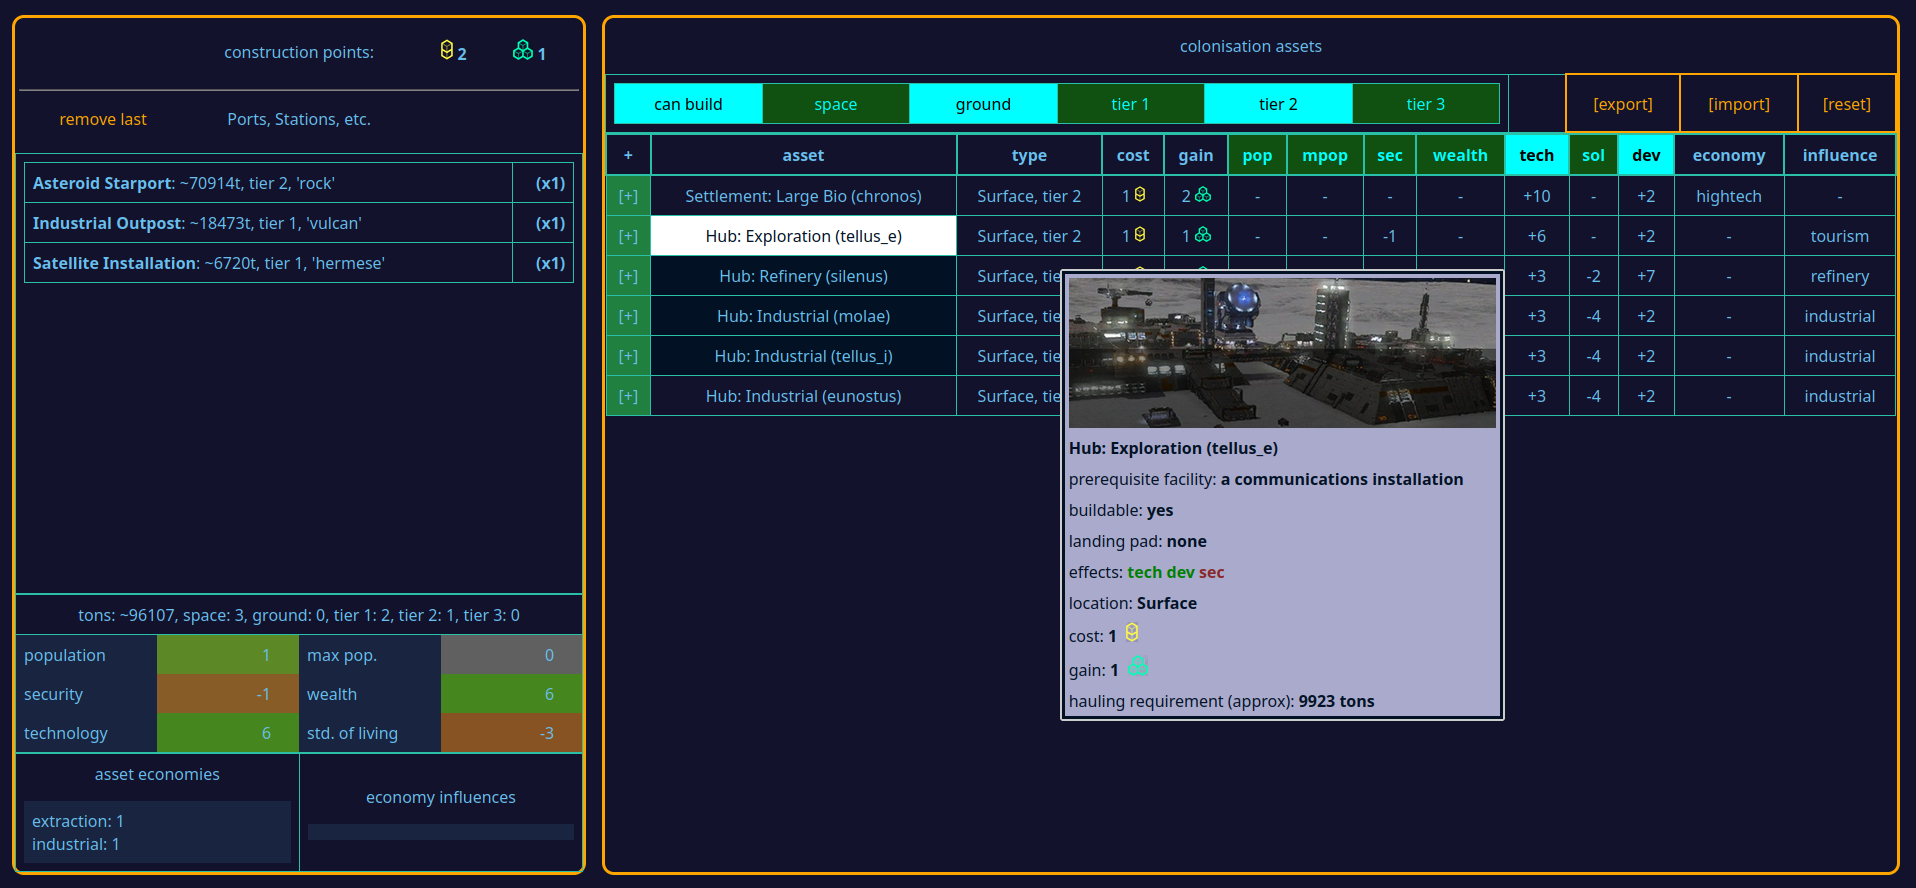
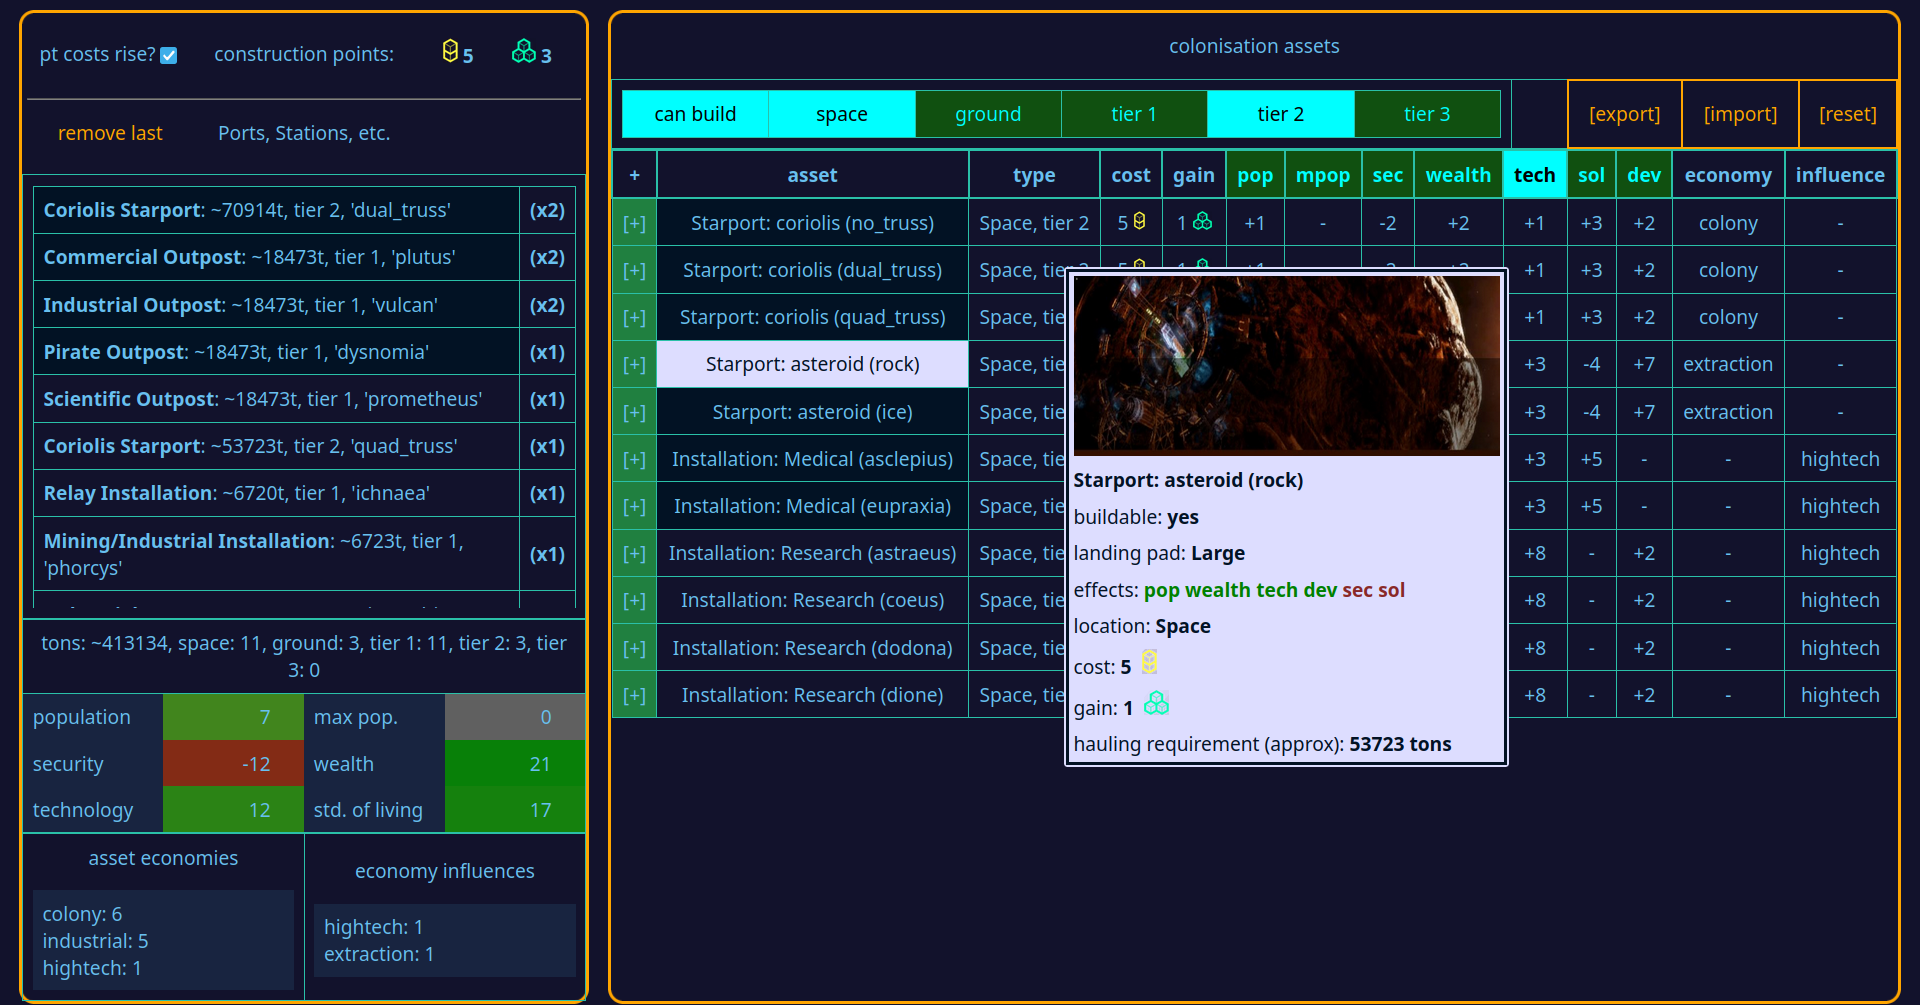
support construction points increase mechanic

diff --git a/index.html b/index.html
@@ -187,11 +187,9 @@ table {
 .infoPanel{
   margin: 4% 4%;
   width: 100%;
-  background-color: #aaaacc;
+  background-color: #ddddff;
   color: #021224;
-/*  padding: 10px; */
-  border: 2px solid #021224; 
-  border: 2px solid #cccccc; 
+  border: 2px solid #ddddff; 
   border-radius: 3px;
 }
 
@@ -273,8 +271,7 @@ table {
 <div class="container">
   <div class="sidebar" id="sidebar">
     <div id="assetsContainerHeader">
-    <table class="nb"><tr class="nb"><td class="nb" width="30%"></td><td class="nb" width="40%">construction points:</td><td class="nb" width="30%" id="pointsContainer"></td></tr></table>
-    <!-- table class="nb"><tr class="nb"><td class="nb" id="pointsContainer" width="30%"></td><td class="nb" width="40%">colonised system</td><td class="nb" width="30%"></td></tr></table -->
+    <table class="nb"><tr class="nb"><td class="nb" id="pointsOptions" width="30%"><label for="hikeOption">pt costs rise?</label><input type="checkbox" id="hikeOption"></td><td class="nb" width="40%">construction points:</td><td class="nb" width="30%" id="pointsContainer"></td></tr></table>
     <hr/>
     <table class="nb"><tr class="nb"><td class="nb" id="undo" width="30%"></td><td class="nb" width="40%">Ports, Stations, etc.</td><td class="nb" id="redo" width="30%"></td></tr></table>
     </div>
@@ -299,6 +296,8 @@ table {
 </div>
 
 <script>
+
+let loggit = false;
 
 const headers = ["+", "asset", "type", "cost", "gain", "pop", "mpop", "sec", "wealth", "tech", "sol", "dev", "economy", "influence"];
 
@@ -1004,6 +1003,8 @@ let systemAssetsList = [];
 // next asset to be added at this index (assets already in this or higher indices are for "redo last")
 let assetsListCurrent = 0;
 let systemStatus = { pop: 0, mpop: 0, sec: 0, wealth: 0, tech: 0, sol: 0, dev: 0 };
+let doMechanise = true;
+let deMechanised = false;
 
 const assetRequirements = {
     aergia: { req: ["hermese", "angelia", "eirene"], reqText: 'a satellite installation' },
@@ -1061,6 +1062,18 @@ function idToVariant(id) {
     return parts[1];
 }
 
+function assetFromId(id) {
+
+    const variantName = idToVariant(id);
+
+    for(let assetName in assets) {
+        if (assets[assetName].variants.includes(variantName)) {
+            return assets[assetName];
+        }
+    }
+    return {};
+}
+
 function haveRequirementFor(id) {
     let variantName = idToVariant(id);
     if (variantName in assetRequirements) {
@@ -1071,6 +1084,24 @@ function haveRequirementFor(id) {
             }
         }
         return false;
+    }
+    return true;
+}
+
+function canAdd(asset) {
+    if (!numSystemAssets()) {
+        if (primaryTypes.includes(asset.type)) {
+            return true;
+        } else {
+            return false;
+        }
+    }
+    if (asset.cost.amount > 0) {
+        costAmount = mechanise(asset);
+        let tier = 't' + asset.cost.tier;
+        if (points[tier] < costAmount) {
+            return false;
+        }
     }
     return true;
 }
@@ -1195,32 +1226,61 @@ function assetHeaders() {
     return r;
 }
 
-function canAdd(asset) {
-    if (!numSystemAssets()) {
-        if (primaryTypes.includes(asset.type)) {
-            return true;
-        } else {
-            return false;
+function countMajorAssets() {
+
+    if (assetsListCurrent === 0) {
+        return 0;
+    }
+
+    let total = 0;
+    let firstAss = assetFromId(systemAssetsList[0]);
+
+    if (firstAss.cost.amount > 0) { 
+        total -= 1;
+    }
+
+    for (let i = 0; i < assetsListCurrent; i++) {
+
+        const asset = assetFromId(systemAssetsList[i]);
+
+        if (asset.cost.amount >= 3) { 
+           total++;
         }
     }
-    if (asset.cost.amount > 0) {
-        let tier = 't' + asset.cost.tier;
-        if (points[tier] < asset.cost.amount) {
-            return false;
-        }
+
+    return total;
+}
+
+function mechanise(asset) {
+
+    if (!doMechanise || (asset.cost.amount < 3)) {
+        return asset.cost.amount;
     }
-    return true;
+
+    let numMajorAssets = countMajorAssets();
+
+    if (numMajorAssets < 2) {
+        return asset.cost.amount;
+    }
+
+    return asset.cost.amount + ((numMajorAssets - 1) * ((asset.cost.tier === 3) ? 6 : 2));
 }
 
 function actions(asset, variant) {
 
     let id = asset.name + '|' + variant;
-    var addCell;
+    let addCell;
 
     if (canAdd(asset)) {
         addCell = textElement('td', '[+]');
+
+        addCell = textElement('td', '[+]', 'mouseInOut', [
+            function() { this.style.background = '#ddddff'; this.style.color = '#021224'; infoBox(asset, variant); },
+            function() { this.style.background = '#208040'; this.style.color = '#68c0f0'; closeInfoPanel(); }
+        ]); 
         addCell.style.backgroundColor = '#208040';
         addCell.onclick = function() { addSystemAsset(asset, variant, true); };
+
     } else {
         addCell = textElement('td', '[_]');
         addCell.style.backgroundColor = '#808080';
@@ -1228,6 +1288,7 @@ function actions(asset, variant) {
 
     return addCell;
 }
+
 
 function assetRow(assetName, variant) {
 
@@ -1237,7 +1298,7 @@ function assetRow(assetName, variant) {
 
     let name = asset.type + ': ' + asset.name + ' (' + variant + ')';
     let assCell = textElement('td', name, 'mouseInOut', [
-            function() { this.style.background = '#ffffff'; this.style.color = '#021224'; infoBox(asset, variant); },
+            function() { this.style.background = '#ddddff'; this.style.color = '#021224'; infoBox(asset, variant); },
             function() { this.style.background = '#021224'; this.style.color = '#68c0f0'; closeInfoPanel(); }
     ]); 
 
@@ -1249,7 +1310,8 @@ function assetRow(assetName, variant) {
 
     let costStr = '-';
     if (asset.cost.amount > 0) {
-        costStr = asset.cost.amount + '&nbsp;' + (asset.cost.tier == 2 ? t2Img : t3Img);
+        let costAmount = mechanise(asset);
+        costStr = costAmount + '&nbsp;' + (asset.cost.tier == 2 ? t2Img : t3Img);
     }
     let gainStr = '-';
     if (asset.gain.amount > 0) {
@@ -1278,6 +1340,7 @@ function isVisible(assetName) {
             return false;
         }
     }
+
     if (assetFilters["space"]) {
         if (!(spaceTypes.includes(asset.type))) {
             return false;
@@ -1330,7 +1393,29 @@ function assetTable() {
     document.getElementById("tableContainer").appendChild(t);
 }
 
+function toggleMechanise() {
+
+    if (deMechanised) {
+        return;
+    }
+
+    doMechanise = !doMechanise;
+
+    if (!doMechanise) {
+        let cb = document.getElementById('hikeOption');
+        cb.disabled = true;
+        deMechanised = true;
+    }
+
+    refresh();
+}
+
 function showPoints() {
+
+    let cb = document.getElementById('hikeOption');
+    cb.checked = doMechanise;
+    cb.onclick = toggleMechanise;
+
     let t = document.createElement('table');
     let r = document.createElement('tr');
     let c = htmlElement('td', '<img class="tPointsImgB" src="img/t2.png"> <b>' + points.t2 + '</b>');
@@ -1489,6 +1574,18 @@ function showEconomy() {
     c.appendChild(t);
 }
 
+function mechanWarning() {
+    const p = document.createElement('p');
+    p.innerHTML = "There's optional support for the controversial "
+                + '<a href="https://forums.frontier.co.uk/threads/elite-dangerous-system-colonisation-beta-details-feedback.634055/post-10572014" target="_blank" style="color: #ff6644">'
+                + 'construction points price hike mechanic</a>, which you can turn off (once) with the checkbox (top left)<br />'
+                + 'Exporting and importing with different settings for this can create an inconsistent state - so '
+                + '<a href="http://catb.org/jargon/html/D/Don-t-do-that-then-.html" style="color: #ff6644">Don\'t Do That!</a>';
+    p.style.color = '#ff4444';
+    return p;
+}
+
+
 function buildWarning() {
     const p = document.createElement('p');
     p.innerHTML = '***WARNING***</div> '
@@ -1510,9 +1607,10 @@ function spreadsheetLink() {
 function intro() {
     const s = document.createElement('span');
     s.appendChild(textElement('p', 'Click a green "[+]" on the right to add an asset.'));
-    s.appendChild(textElement('p', 'Click filters like "[tier 3]" to show matching assets.'));
+    s.appendChild(textElement('p', 'Click filters like "[tier 3]" or "SOL" (standard of living) to show matching assets.'));
     s.appendChild(textElement('p', 'Buildable filter ("can build") is pre-enabled, click to disable.'));
     s.appendChild(textElement('p', 'Adding assets may require construction points (tier 2 or tier 3). No points are required for the first station.'));
+    s.appendChild(mechanWarning());
     s.appendChild(textElement('p', 'When you add an asset, this text will disappear and assets will appear here.'));
     s.appendChild(buildWarning());
     s.appendChild(spreadsheetLink());
@@ -1736,6 +1834,9 @@ function showAssets() {
 
 function toggleFilter(filter) {
 
+    console.log("  >>>>>>>>>>>>>>>>>>>>>>>>>>>> toggle filter: " + filter + " <<<<<<<<<<<<<<<<<<<<<<<<<<<<<<<<<<");
+    // loggit = true;
+
     assetFilters[filter] = assetFilters[filter] ? false : true;
 
     if (assetFilters[filter]) {
@@ -1782,18 +1883,6 @@ function showFilters() {
     filtersContainer.appendChild(t);
 }
 
-function assetFromId(id) {
-
-    const variantName = idToVariant(id);
-
-    for(assetName in assets) {
-        if (assets[assetName].variants.includes(variantName)) {
-            return assets[assetName];
-        }
-    }
-    return {};
-}
-
 function assetInfo(asset, variant, posn) {
 
     let padSize = (variant in padSizes ? padSizes[variant] : 'none');
@@ -1806,8 +1895,8 @@ function assetInfo(asset, variant, posn) {
     if (costImg) {
         costImg = '<img class="tPointsImgB" src="' + costImg + '">';
     }
-    // let cost = ( asset.cost.amount ? '<b>' + asset.cost.amount + '</b>\x0a\x0ax\x0a\x0a' + costImg : 'none' );
-    let cost = ( asset.cost.amount ? '<b>' + asset.cost.amount + '</b>&nbsp;&nbsp;' + costImg : 'none' );
+
+    let cost = ( asset.cost.amount ? '<b>' + mechanise(asset) + '</b>&nbsp;&nbsp;' + costImg : 'none' );
 
     let gainImg = ( asset.gain.amount ? 'img/t' + asset.gain.tier + '.png' : '' );
     if (gainImg) {
@@ -1886,7 +1975,7 @@ function infoBox(asset, variant, pos) {
     let exporter = document.getElementById("exportDialog");
     exporter.style.display = "none";
 
-    infoPanel.innerHTML = assetInfo(asset, variant, pos); // '<p>info for ' + variant + '</p>';
+    infoPanel.innerHTML = assetInfo(asset, variant, pos);
 
     infoPanel.style.display = "inline-block";
     wrapper.style.display = "inline-block";
@@ -1977,10 +2066,16 @@ function reset() {
     assetsListCurrent = 0;
     systemStatus = { pop: 0, mpop: 0, sec: 0, wealth: 0, tech: 0, sol: 0, dev: 0 };
 
+    let cb = document.getElementById('hikeOption');
+    cb.disabled = false;
+    doMechanise = true;
+    deMechanised = false;
+
     for (var filter in assetFilters) {
       assetFilters[filter] = false;
     }
     assetFilters["can build"] = true;
+
     refresh();
 }
 
@@ -1994,8 +2089,12 @@ function importFromFile() {
         idList.forEach( function(id) {
             let variant = idToVariant(id);
             let asset = assetFromId(id);
-            if  (variant) {
-                addSystemAsset(asset, variant, false);
+            if (canAdd(asset)) {
+                if  (variant) {
+                    addSystemAsset(asset, variant, false);
+                }
+            } else {
+                alert("can't add asset for " + id + ", maybe try without the points hike option?");
             }
         });
         refresh();
@@ -2036,6 +2135,7 @@ function refreshContainer(containerName, showFn) {
 }
 
 function refresh() {
+
     const containers = {
         'assetsContainer': showAssets,
         'statusContainer': showStatus,
@@ -2048,6 +2148,8 @@ function refresh() {
     for (var c in containers) {
         refreshContainer(c, containers[c]);
     }
+
+
 //    let d = document.getElementById("debug");
 //    d.innerHTML = '';
 }

diff --git a/README.md b/README.md
@@ -10,11 +10,9 @@ Tool to experiment with system colony builds for Elite Dangerous
 - Click green '+' signs to add facilities 
 - Click green column headers to filter
 - Export and import for saving system builds to a simple text file
-- IF IMPORT NO LONGER WORKS: edit import file, change "phoebe" to "pheobe", "0 truss" to no_truss, "2 truss" to dual_truss and "4 truss" to quad_truss
-- IF IT STILL DOESN'T WORK: as per the open issue, construction point cost for small/medium tourist settlements was incorrect. If your build includes these, it may not load now it's fixed. Nothing to be done for this, I'm afraid.
 - Undo and redo
 - Cargo amounts tracking (approx totals only)
-- Doesn't track the "Mechan" price hike (yet)
+- Preliminary support for [construction point price hikes](https://forums.frontier.co.uk/threads/elite-dangerous-system-colonisation-beta-details-feedback.634055/post-10572014) after building two additional major assets
 - Basic javascript only, no dependencies, run it at home
 - 90's html skills on show
 - UI/UX - I've heard of them
